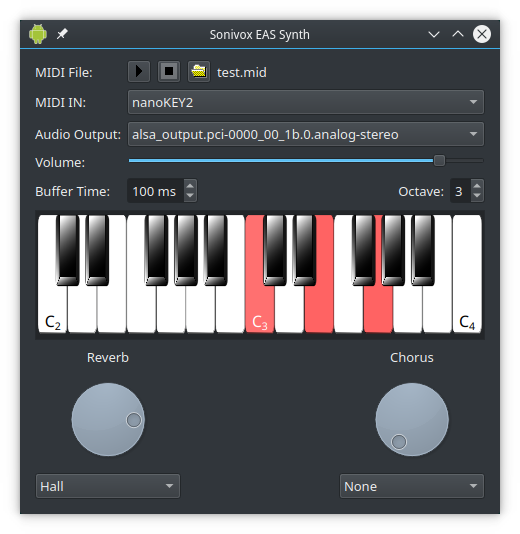
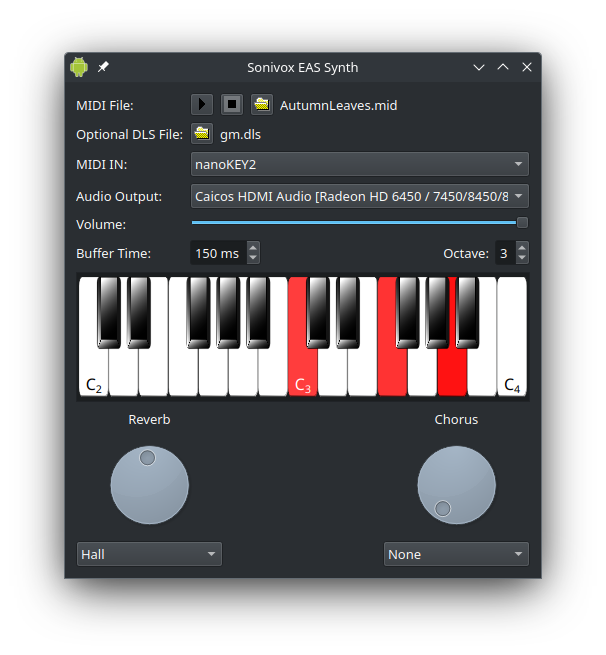
reelase v2.1.0 preparation

diff --git a/cmdlnsynth/main.cpp b/cmdlnsynth/main.cpp
@@ -16,29 +16,26 @@
     along with this program. If not, see <http://www.gnu.org/licenses/>.
 */
 
-#include <csignal>
-#include <QDebug>
-#include <QCoreApplication>
 #include <QCommandLineParser>
-#include <QScopedPointer>
+#include <QCoreApplication>
+#include <QDebug>
 #include <QFileInfo>
+#include <QScopedPointer>
+#include <csignal>
+#include <cstdio>
 
 #include <eas_reverb.h>
 #include "synthcontroller.h"
 #include "programsettings.h"
-
-#if QT_VERSION >= QT_VERSION_CHECK(5,15,0)
-    #define endl Qt::endl
-#endif
 
 QScopedPointer<SynthController> synth;
 
 void signalHandler(int sig)
 {
     if (sig == SIGINT)
-        qDebug() << "SIGINT received. Exiting" << endl;
+        qDebug() << "SIGINT received. Exiting";
     else if (sig == SIGTERM)
-        qDebug() << "SIGTERM received. Exiting" << endl;
+        qDebug() << "SIGTERM received. Exiting";
     synth->stop();
     qApp->quit();
 }

diff --git a/guisynth/mainwindow.cpp b/guisynth/mainwindow.cpp
@@ -73,6 +73,7 @@ MainWindow::MainWindow(QWidget *parent) :
     m_songFile = QString();
     updateState(EmptyState);
     initialize();
+    adjustSize();
 }
 
 MainWindow::~MainWindow()
